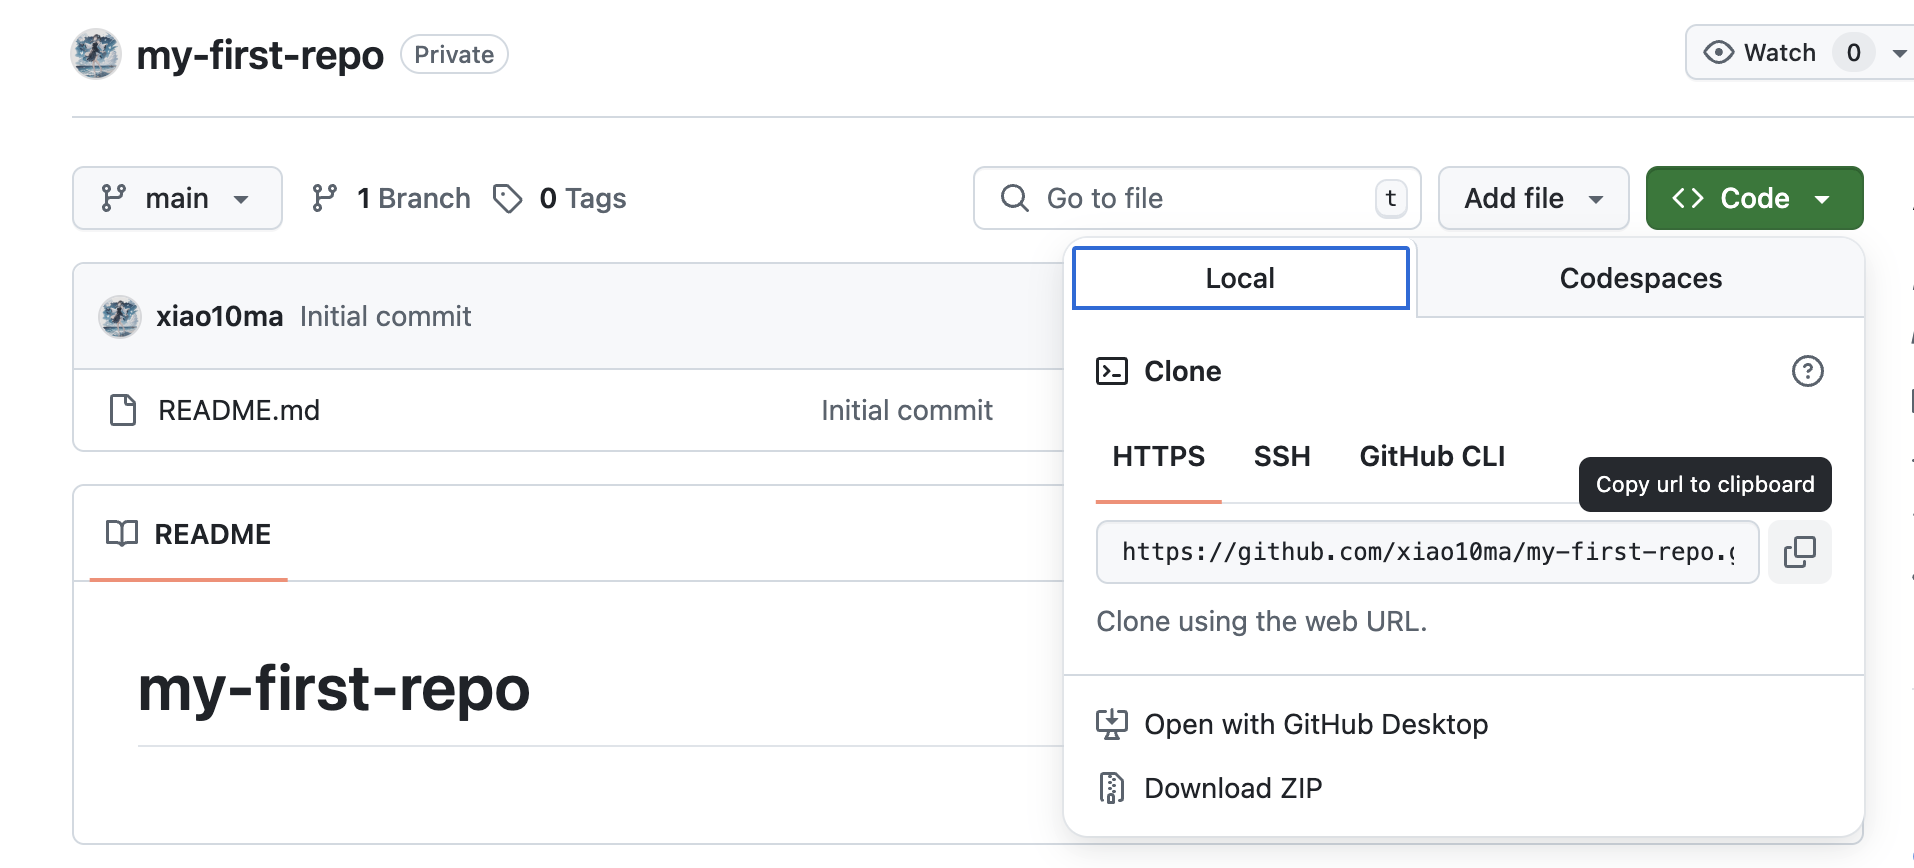
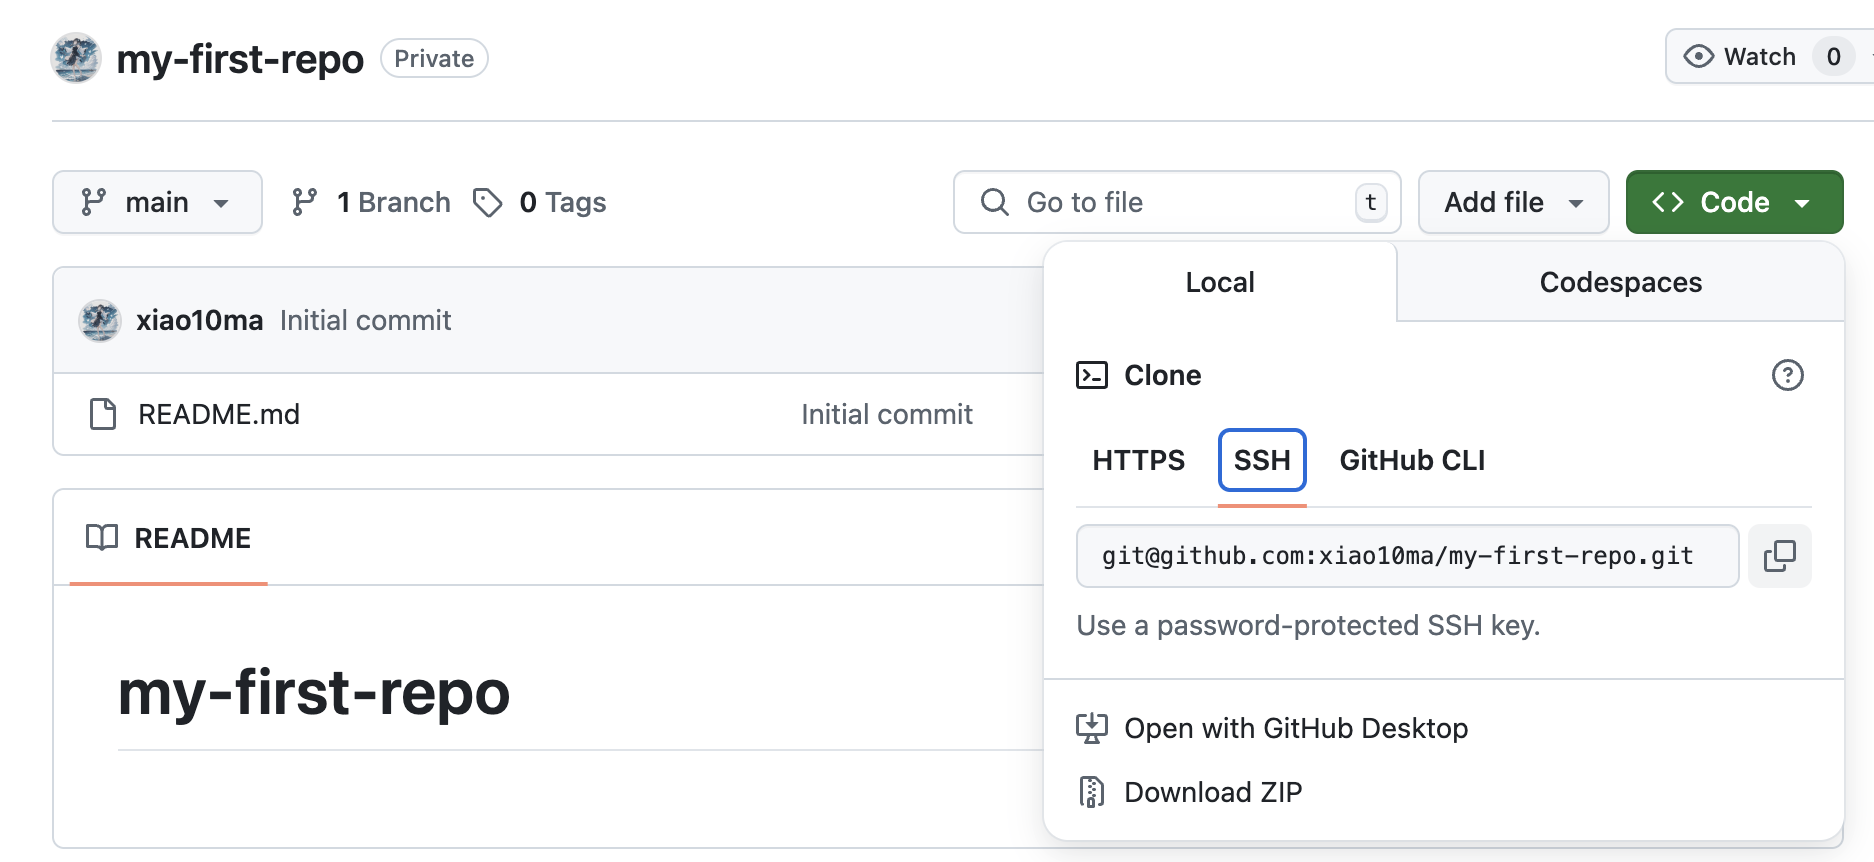
update

diff --git a/README.md b/README.md
@@ -259,8 +259,6 @@ GitHub 是一个基于 Git 的**远程代码托管平台**。你可以：
 | 添加文件到暂存区 | `git add {filename}` 或 `git add .` | 将修改加入“待提交”列表    |
 | 提交修改         | `git commit -m "提交说明"`            | 提交修改并写入说明          |
 | 查看历史记录     | `git log`                             | 查看提交记录                |
-| 查看简洁历史     | `git log --oneline`                   | 只看摘要                    |
-| 查看改动内容     | `git diff`                            | 查看还没提交的修改内容      |
 | 推送到远程仓库   | `git push`                            | 把本地修改推送到远程仓库    |
 | 拉取远程更新     | `git pull`                            | 下载并合并远程仓库的内容    |
 
@@ -268,46 +266,14 @@ GitHub 是一个基于 Git 的**远程代码托管平台**。你可以：
 
 ---
 
-#### 📝 实战：创建自己的 Git 仓库并上传代码（配合 VS Code 使用）
+### 🌐 使用 SSH 方式连接 GitHub
 
-1. 在Github上创建一个仓库
+在开始使用 Git 和 GitHub 之前，我们先来配置 SSH 连接。这样可以避免每次 push 代码时都需要输入用户名和密码，既安全又省心。
 
-   - 点击右上角 "➕" → New repository
-   - 填写仓库名（比如：`my-first-repo`），可以选择 Public 或 Private
-   - 勾选 "Initialize with README"，这样仓库中会有一个初始文件README.md
-     
-<p align="center"><img src="image/README/new_repo.png" width="50%"></p>
-
-2. 克隆仓库到本地
-
-   - 点击 "Code" -> "HTTPS" -> 复制链接
-   - 用VS Code连接服务器，在终端执行：
-
-   ```bash
-   git clone {repo_url}
-   # example: git clone https://github.com/xiao10ma/my-first-repo.git
-   ```
-
-<p align="center"><img src="image/README/clone_repo.png" width="80%"></p>
-
-3. 修改文件并上传
-
-   - 随意修改文件
-   - 在左侧栏，源代码管理处，点击加号，添加文件到暂存区
-   - 写好提交信息（比如：`修改了README文件`），点击“✓提交”
-   - 点击 “同步更改” 按钮，将提交内容推送至 GitHub
-   - 此时，在GitHub上，可以看到文件被修改了
-
-<p align="center"><img src="image/README/add_push.png" width="50%"></p>
-
----
-
-### 🌐 如何连接 GitHub（SSH 登录方式）
-
-#### ✅ 1. 生成 SSH 密钥（如果还没生成过）
+#### ✅ 1. 生成 SSH 密钥（服务器端）
 
 ```bash
-ssh-keygen -t rsa -b 4096 -C "your_email@example.com"
+ssh-keygen -t rsa -b 4096 -C "{your_email@example.com}"
 ```
 
 一路回车，生成 `~/.ssh/id_rsa` 和 `id_rsa.pub`
@@ -319,32 +285,54 @@ ssh-keygen -t rsa -b 4096 -C "your_email@example.com"
 3. 选择 `SSH and GPG keys` → `New SSH key`
 4. 把本地的 `id_rsa.pub` 内容复制进去：
 
+cat 查看`id_rsa.pub`：
 ```bash
 cat ~/.ssh/id_rsa.pub
 ```
 
----
-
-### 🗂 Git 项目典型工作流程（本地修改后推送）
+#### ✅ 3. 测试 SSH 连接
 
 ```bash
-# 克隆项目（只做一次）
-git clone git@github.com:{your_username}/{repo_name}.git
-
-# 进入项目目录
-cd {repo_name}
-
-# 修改代码...
-
-# 添加文件到暂存区
-git add .
-
-# 提交修改
-git commit -m "fix: 修复了某个问题"
-
-# 推送到远程仓库
-git push
+ssh -T git@github.com
 ```
+
+如果出现 `Hi {username}! You've successfully authenticated, but GitHub does not provide shell access.` 则说明连接成功。
+
+---
+
+### 📝 实战：创建自己的 Git 仓库并上传代码（配合 VS Code 使用）
+
+完成 SSH 配置后，现在我们来创建并使用自己的 Git 仓库：
+
+1. 在Github上创建一个仓库
+
+   - 点击右上角 "➕" → New repository
+   - 填写仓库名（比如：`my-first-repo`），可以选择 Public 或 Private
+   - 勾选 "Initialize with README"，这样仓库中会有一个初始文件README.md
+     
+<p align="center"><img src="image/README/new_repo.png" width="50%"></p>
+
+2. 克隆仓库到本地
+
+   - 点击 "Code" -> "SSH" -> 复制链接（注意：现在我们使用 SSH 链接而不是 HTTPS）
+   - 用VS Code连接服务器，在终端执行：
+
+   ```bash
+   git clone {repo_url}
+   # example: git clone git@github.com:xiao10ma/my-first-repo.git
+   ```
+
+<p align="center"><img src="image/README/clone_repo.png" width="80%"></p>
+
+3. 修改文件并上传
+
+   - 修改文件，比如在README.md中添加一行内容
+   - 在左侧栏，源代码管理处，点击加号，添加文件到暂存区
+   - 写好提交信息（比如：`修改了README文件`），点击"✓提交"
+   - 点击 "同步更改" 按钮，将提交内容推送至 GitHub
+   - 此时，在GitHub上，可以看到文件被修改了
+
+<p align="center"><img src="image/README/add_push.png" width="50%"></p>
 
 ---
 
